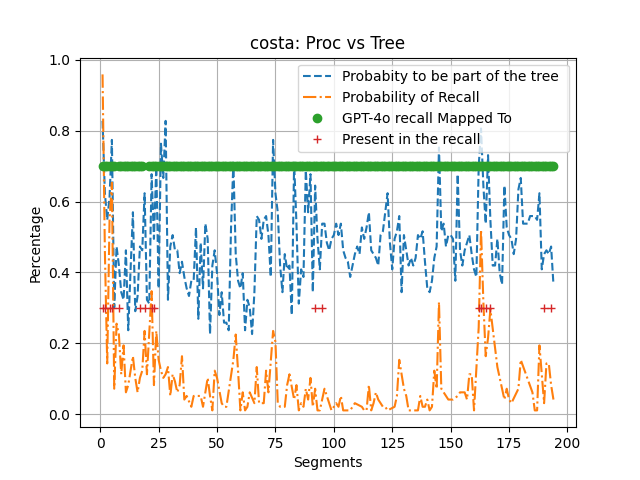
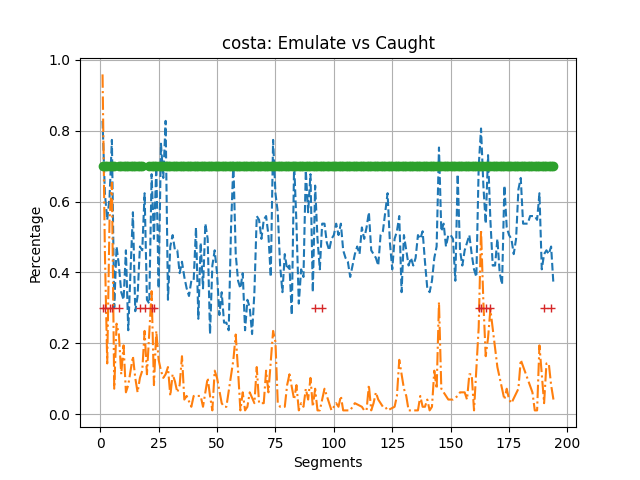
emulate_vs_real

Changed region(s): [[0.3438, 0.0625, 0.875, 0.3125], [0.875, 0.25, 0.9062, 0.2812]]

diff --git a/7e71ecbb7830fd69dc78ba1369a452129b88e980fdbb6d63285fbb8f912f/emulate_vs_real.html b/7e71ecbb7830fd69dc78ba1369a452129b88e980fdbb6d63285fbb8f912f/emulate_vs_real.html
@@ -12,6 +12,10 @@
     <header>
         <h1>Emulation vs Real</h1>
         <h3>
+            p-caught: blue dashed line<br>
+            p-rec: orange dashdot line<br>
+            explicitly mentioned by GPT4o recall: red plus sign<br>
+            Caught by GPT4o (mapped to): big green dot.<br>
             See code at <a
                 href="https://github.com/Ilyashn972/llm-narrative-analysis/blob/main/experiments/emulate_vs_real.py">
                 emulate_vs_real.py</a>

diff --git a/7e71ecbb7830fd69dc78ba1369a452129b88e980fdbb6d63285fbb8f912f/index.html b/7e71ecbb7830fd69dc78ba1369a452129b88e980fdbb6d63285fbb8f912f/index.html
@@ -123,6 +123,9 @@
         <li>
             <a href="window_average.html"> Looking at each window (rangle of segments) separetly </a>
         </li>
+        <li>
+            <a href="emulate_vs_real.html"> Emulation by gpt4o vs Real</a>
+        </li>
         </ul>
     </section>
 
